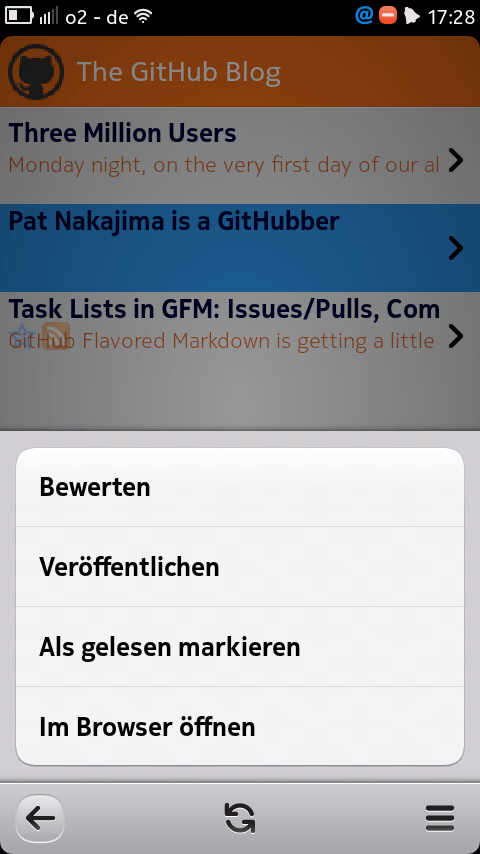
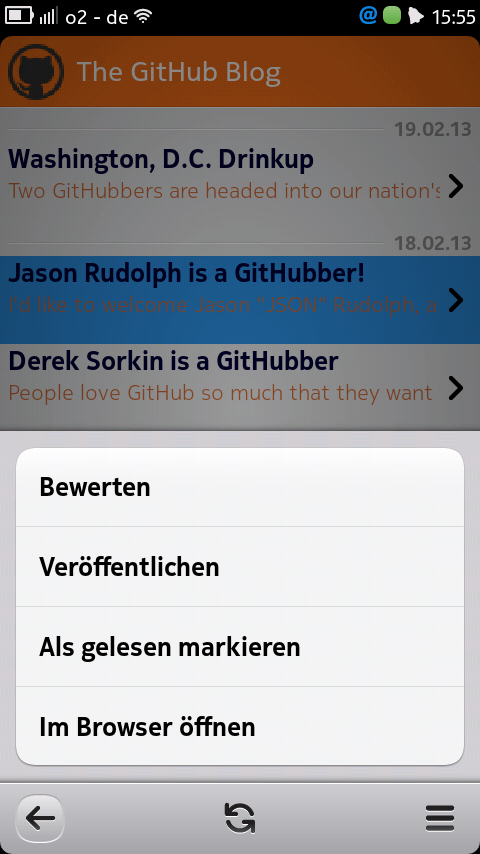
some new screenshots :)

diff --git a/index.html b/index.html
@@ -50,10 +50,13 @@ If you want to discuss, there is the official <a href="http://talk.maemo.org/sho
 <ul id="screenshots">
 <li><a href="assets/screenshots/categories.png" alt="Categories View"><img itemprop="screenshot" src="assets/screenshots/categories.png" /></a></li>
 <li><a href="assets/screenshots/feeds.png" alt="Feeds View"><img itemprop="screenshot" src="assets/screenshots/feeds.png" /></a></li>
+<li><a href="assets/screenshots/feeditems.png" alt="Feeditems View while Fast Scrolling"><img itemprop="screenshot" src="assets/screenshots/feeditems.png" /></a></li>
 <li><a href="assets/screenshots/feeditems_popup.png" alt="Feeditems View with Popup"><img itemprop="screenshot" src="assets/screenshots/feeditems_popup.png" /></a></li>
 <li><a href="assets/screenshots/feeditem.png" alt="Feeditem View"><img itemprop="screenshot" src="assets/screenshots/feeditem.png" /></a></li>
+<li><a href="assets/screenshots/feeditem_popup.png" alt="Feeditem View with Popup"><img itemprop="screenshot" src="assets/screenshots/feeditem_popup.png" /></a></li>
 <li><a href="assets/screenshots/about.png" alt="About View"><img itemprop="screenshot" src="assets/screenshots/about.png" /></a></li>
 <li><a href="assets/screenshots/login.png" alt="Login View"><img itemprop="screenshot" src="assets/screenshots/login.png" /></a></li>
+<li><a href="assets/screenshots/settings.png" alt="Settings Page"><img itemprop="screenshot" src="assets/screenshots/settings.png" /></a></li>
 </ul>
 
 <h2>ArtWork</h2>
